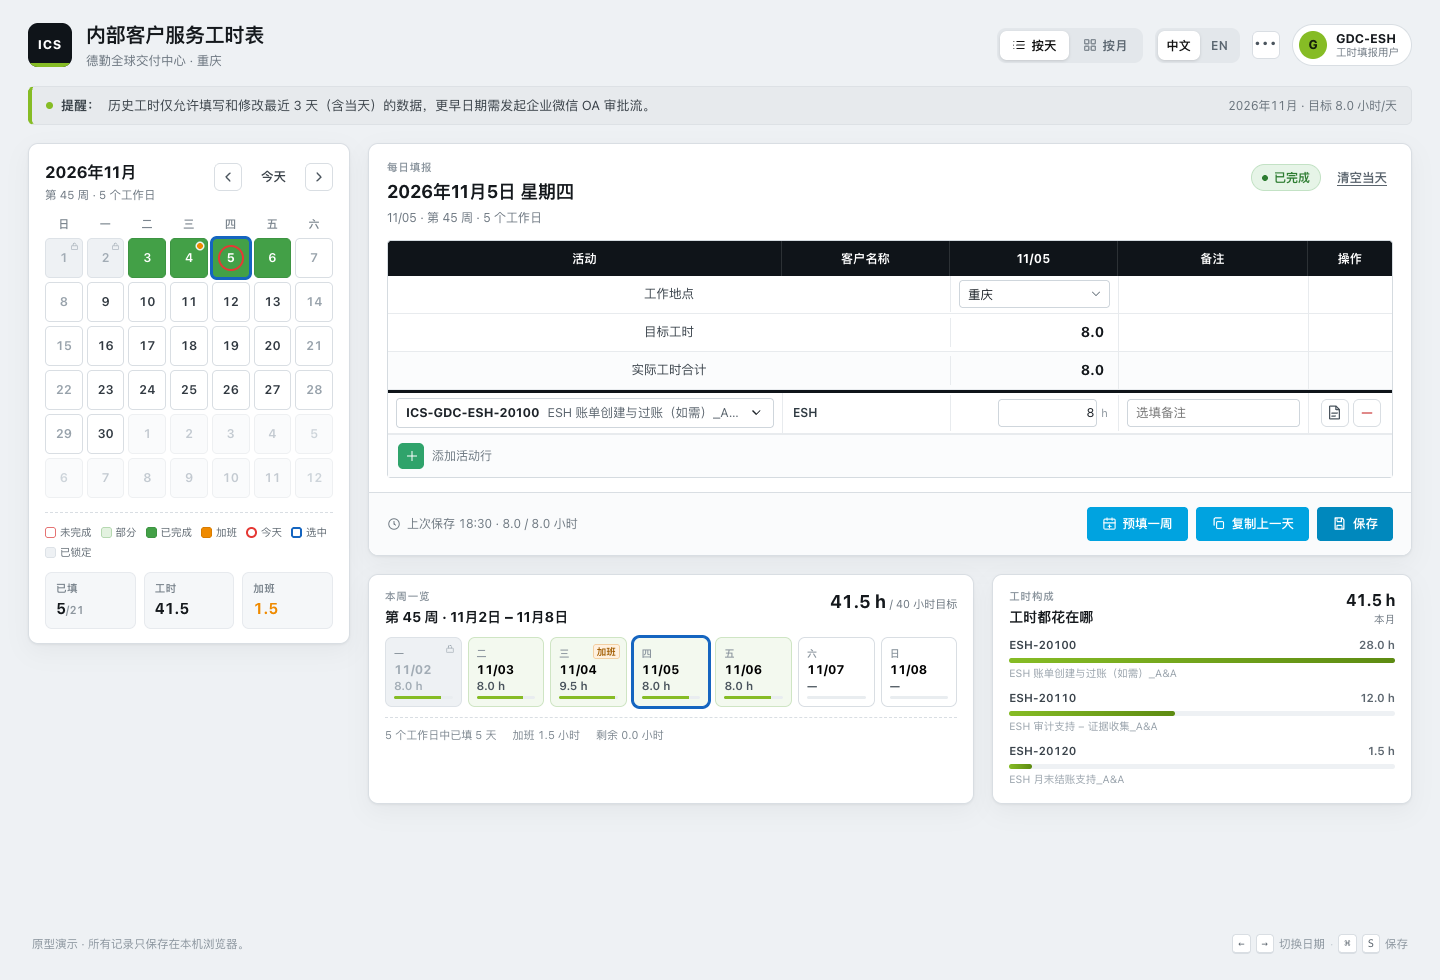
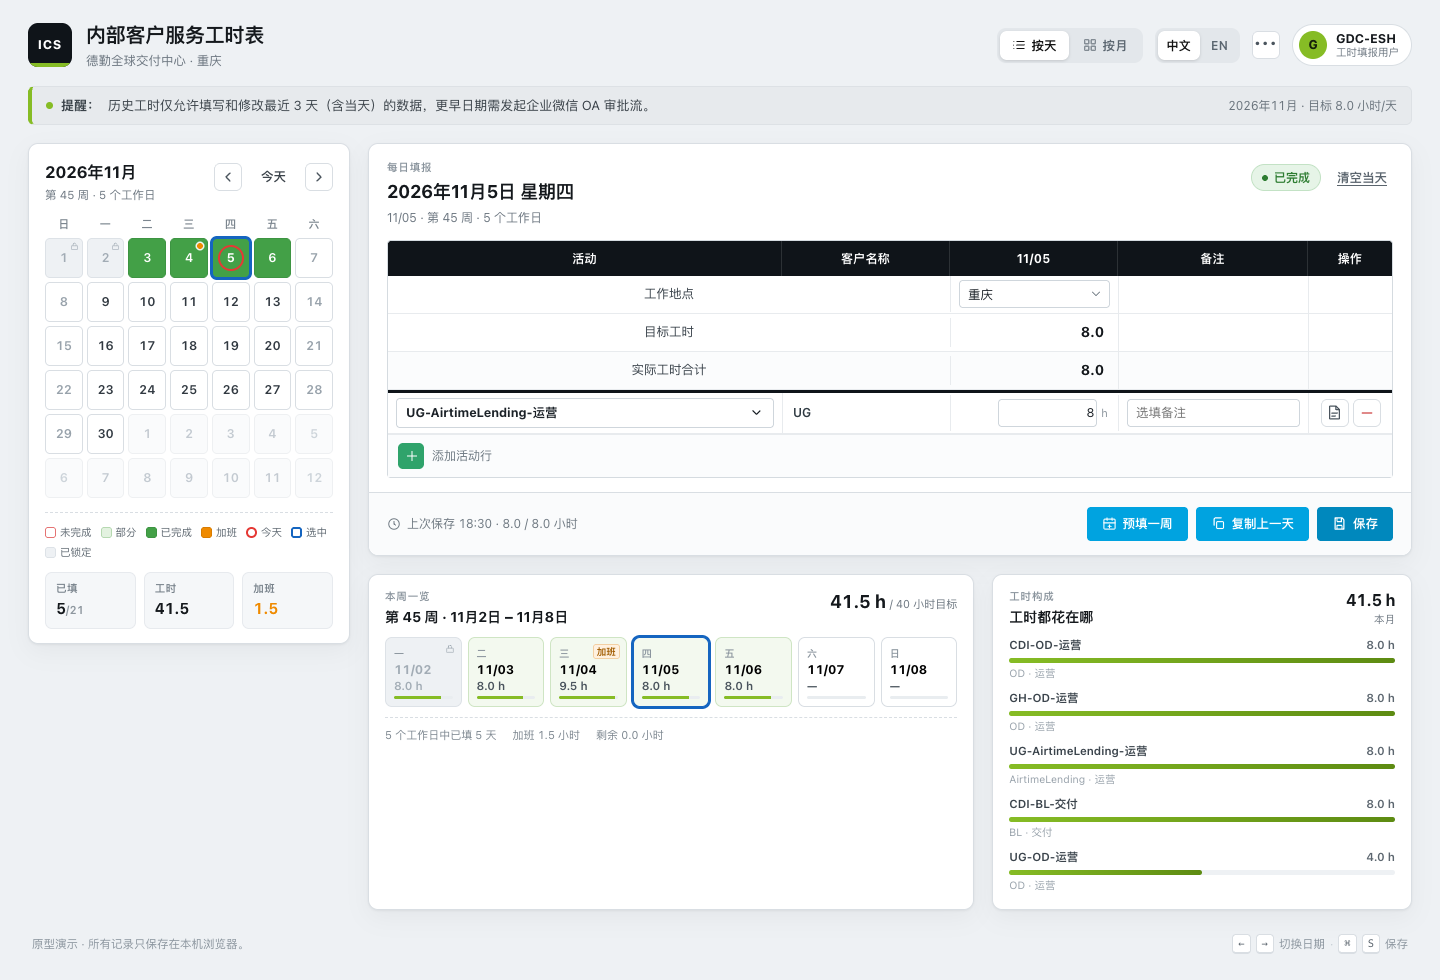
feat(activity): 活动代码改为业务线-产品-业务阶段三级组合
- 业务线 UG/CDI/GH × 产品 OD/AirtimeLending/BL × 阶段 运营/交付 = 18 个组合
- 选择器按业务线分组、支持搜索，按钮只显示组合代码
- 种子数据、月视图标签、工时构成同步为新代码；存储版本升到 v2
- README 更新

diff --git a/src/prototypes/timesheet/lib/catalog.ts b/src/prototypes/timesheet/lib/catalog.ts
@@ -1,18 +1,13 @@
-export type ActivityCategory =
-  | 'ESH'
-  | 'Tax'
-  | 'Consulting'
-  | 'Risk Advisory'
-  | 'Administration'
-  | 'Leave';
+export type ActivityCategory = 'UG' | 'CDI' | 'GH';
 
 export interface ActivityCode {
+  /** 业务线-产品-业务阶段，例如 UG-OD-运营 */
   code: string;
-  /** 英文名称（原始系统口径） */
+  /** 产品 · 阶段（英文） */
   name: string;
-  /** 中文名称 */
+  /** 产品 · 阶段（中文） */
   nameZh: string;
-  /** 客户/业务线短名（英文） */
+  /** 业务线（英文） */
   client: string;
   clientZh: string;
   category: ActivityCategory;
@@ -20,159 +15,30 @@ export interface ActivityCode {
   descriptionZh: string;
 }
 
-export const ACTIVITIES: ActivityCode[] = [
-  {
-    code: 'ICS-GDC-ESH-20100',
-    name: 'ESH Billing Creation&Post (if any)_A&A',
-    nameZh: 'ESH 账单创建与过账（如需）_A&A',
-    client: 'ESH',
-    clientZh: 'ESH',
-    category: 'ESH',
-    description:
-      'Monthly billing creation and posting for Engineering, Sciences & Health (ESH) engagements; reconciles amounts, tax codes and billing entities against the engagement ledger.',
-    descriptionZh:
-      'Engineering, Sciences & Health（ESH）业务线月度账单创建与过账，按项目台账核对金额、税率与开票主体。',
-  },
-  {
-    code: 'ICS-GDC-ESH-20110',
-    name: 'ESH Audit Support – Evidence Collection_A&A',
-    nameZh: 'ESH 审计支持 – 证据收集_A&A',
-    client: 'ESH',
-    clientZh: 'ESH',
-    category: 'ESH',
-    description:
-      'Audit support: collect, index and archive vouchers, contracts and interview notes; maintain the evidence index.',
-    descriptionZh: '审计项目支持：凭证、合同与访谈记录的收集、编号与归档，维护证据索引。',
-  },
-  {
-    code: 'ICS-GDC-ESH-20120',
-    name: 'ESH Month-end Closing Support_A&A',
-    nameZh: 'ESH 月末结账支持_A&A',
-    client: 'ESH',
-    clientZh: 'ESH',
-    category: 'ESH',
-    description:
-      'Month-end close support: accruals, amortisation, intercompany reconciliation and variance commentary for the engagement team.',
-    descriptionZh: '月末结账支持：预提、摊销、往来对账与差异说明，输出结账包给项目组。',
-  },
-  {
-    code: 'ICS-GDC-ESH-20130',
-    name: 'ESH Engagement File Review_A&A',
-    nameZh: 'ESH 项目档案复核_A&A',
-    client: 'ESH',
-    clientZh: 'ESH',
-    category: 'ESH',
-    description:
-      'Engagement file review: completeness, sign-off chain and archiving standards; log review notes and track remediation.',
-    descriptionZh: '项目档案复核：完整性、签批链与归档规范检查，记录复核意见并跟踪整改。',
-  },
-  {
-    code: 'ICS-GDC-TAX-30100',
-    name: 'Tax Compliance Filing Support_Tax',
-    nameZh: '税务合规申报支持_税务',
-    client: 'GDC Tax',
-    clientZh: 'GDC 税务',
-    category: 'Tax',
-    description:
-      'Tax compliance filing support: prepare return data, run cross-checks and archive filing receipts.',
-    descriptionZh: '税务合规申报支持：申报表数据准备、勾稽校验与申报回执归档。',
-  },
-  {
-    code: 'ICS-GDC-TAX-30110',
-    name: 'Tax Return Data Preparation_Tax',
-    nameZh: '申报数据整理_税务',
-    client: 'GDC Tax',
-    clientZh: 'GDC 税务',
-    category: 'Tax',
-    description:
-      'Tax return data preparation: reconcile trial balances, invoice details and tax computation workpapers.',
-    descriptionZh: '申报数据整理：科目余额、发票明细与税款计算表的多源核对。',
-  },
-  {
-    code: 'ICS-GDC-CON-40100',
-    name: 'Consulting Project Delivery_Consulting',
-    nameZh: '咨询项目交付_咨询',
-    client: 'Consulting',
-    clientZh: '咨询',
-    category: 'Consulting',
-    description:
-      'Consulting project delivery: interviews, analysis, report writing and client communication, tracked by workstream.',
-    descriptionZh: '咨询项目交付：访谈、分析、报告撰写与客户沟通，按工作流归集工时。',
-  },
-  {
-    code: 'ICS-GDC-CON-40110',
-    name: 'Client Workshop Preparation_Consulting',
-    nameZh: '客户工作坊准备_咨询',
-    client: 'Consulting',
-    clientZh: '咨询',
-    category: 'Consulting',
-    description:
-      'Client workshop preparation: agenda, materials, case studies and dry runs, including on-site support.',
-    descriptionZh: '客户工作坊准备：议程、材料、案例与演练脚本，含现场支持。',
-  },
-  {
-    code: 'ICS-GDC-RISK-50100',
-    name: 'Risk Advisory Control Testing_Risk',
-    nameZh: '风险咨询内控测试_风险',
-    client: 'Risk Advisory',
-    clientZh: '风险咨询',
-    category: 'Risk Advisory',
-    description:
-      'Internal control testing: sampling, walkthroughs, defect rating and remediation recommendations.',
-    descriptionZh: '内控测试执行：抽样、穿行测试、缺陷分级与整改建议。',
-  },
-  {
-    code: 'ICS-GDC-ADM-90010',
-    name: 'Internal Training & Learning_ADM',
-    nameZh: '内部培训与学习_行政',
-    client: 'GDC Internal',
-    clientZh: 'GDC 内部',
-    category: 'Administration',
-    description:
-      'Internal training and learning: mandatory courses, professional certification hours and knowledge-sharing sessions.',
-    descriptionZh: '内部培训与学习：必修课程、专业认证学时与分享会。',
-  },
-  {
-    code: 'ICS-GDC-ADM-90020',
-    name: 'Team Meeting & Administration_ADM',
-    nameZh: '团队例会与行政事务_行政',
-    client: 'GDC Internal',
-    clientZh: 'GDC 内部',
-    category: 'Administration',
-    description: 'Team meetings, weekly status reports, administrative tasks and non-billable support.',
-    descriptionZh: '团队例会、周报、行政事务与非项目类支持工作。',
-  },
-  {
-    code: 'ICS-GDC-LV-00010',
-    name: 'Annual Leave_ADM',
-    nameZh: '年假_行政',
-    client: 'GDC Internal',
-    clientZh: 'GDC 内部',
-    category: 'Leave',
-    description: 'Annual leave, counted at 8 hours per day and excluded from overtime.',
-    descriptionZh: '年假，按 8 小时/天计入，不计入加班。',
-  },
-  {
-    code: 'ICS-GDC-LV-00020',
-    name: 'Sick Leave_ADM',
-    nameZh: '病假_行政',
-    client: 'GDC Internal',
-    clientZh: 'GDC 内部',
-    category: 'Leave',
-    description: 'Sick leave, filed at the actual hours taken and excluded from overtime.',
-    descriptionZh: '病假，按实际请假时长填报，不计入加班。',
-  },
-  {
-    code: 'ICS-GDC-LV-00030',
-    name: 'Statutory Holiday_ADM',
-    nameZh: '法定节假日_行政',
-    client: 'GDC Internal',
-    clientZh: 'GDC 内部',
-    category: 'Leave',
-    description: 'Statutory holiday, counted as a standard 8-hour working day.',
-    descriptionZh: '法定节假日，按标准工作日 8 小时计。',
-  },
-];
+const BUSINESS_LINES = ['UG', 'CDI', 'GH'] as const;
+const PRODUCTS = ['OD', 'AirtimeLending', 'BL'] as const;
+const STAGES = ['运营', '交付'] as const;
+
+const STAGE_EN: Record<string, string> = {
+  运营: 'Operations',
+  交付: 'Delivery',
+};
+
+/** 3 条业务线 × 3 个产品 × 2 个业务阶段 = 18 个可选组合。 */
+export const ACTIVITIES: ActivityCode[] = BUSINESS_LINES.flatMap((line) =>
+  PRODUCTS.flatMap((product) =>
+    STAGES.map((stage) => ({
+      code: `${line}-${product}-${stage}`,
+      name: `${product} · ${STAGE_EN[stage]}`,
+      nameZh: `${product} · ${stage}`,
+      client: line,
+      clientZh: line,
+      category: line,
+      description: `Business line ${line} / product ${product} / stage ${STAGE_EN[stage]}.`,
+      descriptionZh: `业务线 ${line} / 产品 ${product} / 业务阶段 ${stage}。`,
+    })),
+  ),
+);
 
 export interface LocationOption {
   value: string;

diff --git a/src/prototypes/timesheet/i18n.tsx b/src/prototypes/timesheet/i18n.tsx
@@ -76,9 +76,9 @@ const DICT: Record<string, Entry> = {
   'btn.copyLast': { zh: '复制上一天', en: 'Copy last day' },
   'btn.save': { zh: '保存', en: 'Save' },
 
-  'picker.placeholder': { zh: '选择活动代码…', en: 'Select activity code…' },
-  'picker.search': { zh: '搜索代码、客户或活动…', en: 'Search code, client or activity…' },
-  'picker.empty': { zh: '没有匹配“{{query}}”的活动代码。', en: 'No activity code matches “{{query}}”.' },
+  'picker.placeholder': { zh: '选择业务线-产品-业务阶段…', en: 'Select business line / product / stage…' },
+  'picker.search': { zh: '搜索业务线、产品或阶段…', en: 'Search business line, product or stage…' },
+  'picker.empty': { zh: '没有匹配“{{query}}”的选项。', en: 'No option matches “{{query}}”.' },
   'picker.clear': { zh: '清空搜索', en: 'Clear' },
 
   'mv.kicker': { zh: '月度概览', en: 'Month overview' },
@@ -190,12 +190,9 @@ const DICT: Record<string, Entry> = {
   'toast.reset': { zh: '演示数据已恢复。', en: 'Demo data restored.' },
   'toast.exported': { zh: '已导出 JSON 文件。', en: 'Timesheet JSON exported.' },
 
-  'cat.ESH': { zh: 'ESH', en: 'ESH' },
-  'cat.Tax': { zh: '税务', en: 'Tax' },
-  'cat.Consulting': { zh: '咨询', en: 'Consulting' },
-  'cat.Risk Advisory': { zh: '风险咨询', en: 'Risk Advisory' },
-  'cat.Administration': { zh: '行政', en: 'Administration' },
-  'cat.Leave': { zh: '休假', en: 'Leave' },
+  'cat.UG': { zh: 'UG 业务线', en: 'UG' },
+  'cat.CDI': { zh: 'CDI 业务线', en: 'CDI' },
+  'cat.GH': { zh: 'GH 业务线', en: 'GH' },
 
   'err.targetMin': { zh: '目标工时必须大于 0。', en: 'Target hours must be greater than 0.' },
   'err.targetMax': { zh: '目标工时不能超过 24 小时。', en: 'Target hours cannot exceed 24 hours per day.' },

diff --git a/src/prototypes/timesheet/lib/storage.ts b/src/prototypes/timesheet/lib/storage.ts
@@ -3,7 +3,7 @@ import { addDays, startOfWeekMonday, toKey } from './date';
 import type { AppState, DayRecord } from './model';
 import { createLine } from './model';
 
-const STORAGE_KEY = 'deloitte-ics-timesheet.v1';
+const STORAGE_KEY = 'deloitte-ics-timesheet.v2';
 
 interface SeedLine {
   code: string;
@@ -15,14 +15,14 @@ interface SeedLine {
 export function seedState(): AppState {
   const monday = startOfWeekMonday(new Date());
   const plan: SeedLine[][] = [
-    [{ code: 'ICS-GDC-ESH-20100', hours: 4 }, { code: 'ICS-GDC-ESH-20110', hours: 4 }],
-    [{ code: 'ICS-GDC-ESH-20100', hours: 8, remark: 'Billing batch #2410-03' }],
+    [{ code: 'UG-OD-运营', hours: 4 }, { code: 'UG-OD-交付', hours: 4 }],
+    [{ code: 'CDI-OD-运营', hours: 8, remark: 'Billing batch #2410-03' }],
     [
-      { code: 'ICS-GDC-ESH-20100', hours: 8 },
-      { code: 'ICS-GDC-ESH-20120', hours: 1.5, remark: 'Month-end closing support' },
+      { code: 'GH-OD-运营', hours: 8 },
+      { code: 'GH-OD-交付', hours: 1.5, remark: 'Month-end closing support' },
     ],
-    [{ code: 'ICS-GDC-ESH-20100', hours: 8 }],
-    [{ code: 'ICS-GDC-ESH-20110', hours: 8, remark: 'Evidence index hand-off' }],
+    [{ code: 'UG-AirtimeLending-运营', hours: 8 }],
+    [{ code: 'CDI-BL-交付', hours: 8, remark: 'Evidence index hand-off' }],
   ];
 
   const days: Record<string, DayRecord> = {};

diff --git a/src/prototypes/timesheet/ActivityPicker.tsx b/src/prototypes/timesheet/ActivityPicker.tsx
@@ -9,14 +9,7 @@ interface Props {
   invalid?: boolean;
 }
 
-const CATEGORY_ORDER: ActivityCategory[] = [
-  'ESH',
-  'Tax',
-  'Consulting',
-  'Risk Advisory',
-  'Administration',
-  'Leave',
-];
+const CATEGORY_ORDER: ActivityCategory[] = ['UG', 'CDI', 'GH'];
 
 export default function ActivityPicker({ value, onChange, invalid }: Props) {
   const { t, lang } = useI18n();
@@ -70,10 +63,7 @@ export default function ActivityPicker({ value, onChange, invalid }: Props) {
       >
         <span className="picker-value">
           {selected ? (
-            <>
-              <span className="picker-code">{selected.code}</span>
-              <span className="picker-name">{lang === 'zh' ? selected.nameZh : selected.name}</span>
-            </>
+            <span className="picker-code">{selected.code}</span>
           ) : (
             <span className="picker-placeholder">{t('picker.placeholder')}</span>
           )}

diff --git a/src/prototypes/timesheet/lib/model.ts b/src/prototypes/timesheet/lib/model.ts
@@ -1,4 +1,3 @@
-import { findActivity } from './catalog';
 import { daysInMonth, fromKey, isWeekend, round1, toKey } from './date';
 
 export interface ActivityLine {
@@ -58,10 +57,6 @@ export function dayTotal(day: DayRecord | undefined): number {
 export function overtimeHours(day: DayRecord): number {
   const total = dayTotal(day);
   if (total <= 0) return 0;
-  const worked = day.lines.filter((line) => line.hours > 0 && line.code);
-  if (worked.length > 0 && worked.every((line) => findActivity(line.code)?.category === 'Leave')) {
-    return 0;
-  }
   if (isWeekend(fromKey(day.date))) return total;
   const standard = day.target > 0 ? day.target : 8;
   return round1(Math.max(0, total - standard));

diff --git a/src/prototypes/timesheet/MonthView.tsx b/src/prototypes/timesheet/MonthView.tsx
@@ -110,7 +110,7 @@ export default function MonthView({ year, month, editableFrom, days, stats, onSe
                           .slice(0, 2)
                           .map((line) => (
                             <span key={line.id} className="activity-tag" title={line.code}>
-                              {line.code.replace('ICS-GDC-', '')}
+                              {line.code}
                             </span>
                           ))}
                         {record.lines.filter((line) => line.code).length > 2 ? (

diff --git a/src/prototypes/timesheet/ActivityMix.tsx b/src/prototypes/timesheet/ActivityMix.tsx
@@ -50,7 +50,7 @@ export default function ActivityMix({ year, month, days }: Props) {
             return (
               <li key={code}>
                 <div className="mix-line">
-                  <span className="mix-code">{code.replace('ICS-GDC-', '')}</span>
+                  <span className="mix-code">{code}</span>
                   <span className="mix-hours">{hours.toFixed(1)} h</span>
                 </div>
                 <div className="mix-bar">

diff --git a/src/prototypes/timesheet/timesheet.css b/src/prototypes/timesheet/timesheet.css
@@ -1195,7 +1195,7 @@ input[type='number'] {
 
 .picker-option {
   display: grid;
-  grid-template-columns: 148px minmax(0, 1fr) auto;
+  grid-template-columns: 210px minmax(0, 1fr) auto;
   gap: 10px;
   align-items: center;
   width: 100%;

diff --git a/README.md b/README.md
@@ -20,7 +20,7 @@
 
 - `Work Location` 下拉：重庆 / 北京 / 上海 / 广州 / 深圳 / 香港 / Remote。
 - `Target Hours` 固定为 8.0（与 `Total Actual Hours` 同样式展示，不可编辑），超过 8.0 即计 OT。
-- `Activity` 可搜索代码选择器，内置 14 个 `ICS-GDC-*` 代码（ESH / Tax / Consulting / Risk Advisory / Administration / Leave），选中后 `Client Name` 自动带出。
+- `Activity` 可搜索选择器：选项为「业务线-产品-业务阶段」组合，业务线 UG / CDI / GH，产品 OD / AirtimeLending / BL，阶段 运营 / 交付，共 18 个组合（如 `UG-OD-运营`、`CDI-AirtimeLending-交付`），按业务线分组、支持搜索；选中后 `Client Name` 自动带出业务线。
 - 多行 Activity：工时、Remark、单据详情弹窗（可写备注）、添加 / 删除行。
 - 校验：单行与合计 0–24h、填了工时必须选代码、Target 必须大于 0；错误统一列在表单下方。
 - `Save` 写入 `localStorage`，刷新不丢；保存后日历与周/月统计立即更新。
